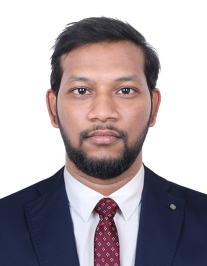
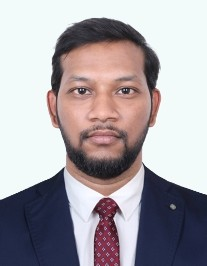
Added GSC

diff --git a/src/About/OurTeam.jsx b/src/About/OurTeam.jsx
@@ -9,7 +9,7 @@ const OurTeam = () => {
            teamMembers.map(({ id, img, name, position })=>(
             <div className="" key={id}>
                <div className="shadow d-flex flex-column align-items-center">
-                 <LazyLoadImage src={img} className="director-img mb-2 w-80 h-80"/>
+                 <LazyLoadImage src={img} className="mb-2 w-80 h-auto aspect-[4/3]"/>
                  <div className="bg-teal-100 p-3">
                   <h4 className="fw-bold fs-5 text-center text-teal-800 font-bold">{name}</h4>
                   <p className="fw-bold fs-5 text-center">{position}</p>
@@ -28,7 +28,7 @@ export default OurTeam
 const teamMembers = [
   {
     id: 1,
-    img: "/Images/About/srikanth-founder-1.jpg",
+    img: "/Images/About/srikanth-founder.jpg",
     name: "Srikanth Murugan",
     position: "Founder & CEO",
   },

diff --git a/src/main.jsx b/src/main.jsx
@@ -5,12 +5,14 @@ import App from './App.jsx'
 import { BrowserRouter } from 'react-router-dom'
 import HeroSection from './Home/HeroSection.jsx'
 import NavBar from './Components/NavBar.jsx'
+import OurTeam from './About/OurTeam.jsx'
 // import NavBar from './NavBar/NavBar.jsx'
 
 createRoot(document.getElementById('root')).render(
   <StrictMode>
     <BrowserRouter>
-      <App/>
+      {/* <App/> */}
+      <OurTeam/>
     </BrowserRouter>
   </StrictMode>,
 )
